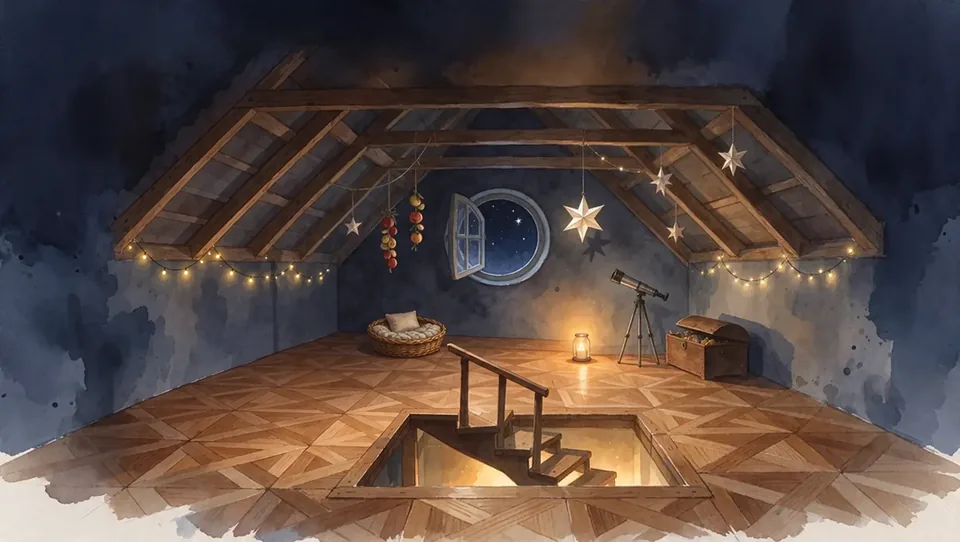
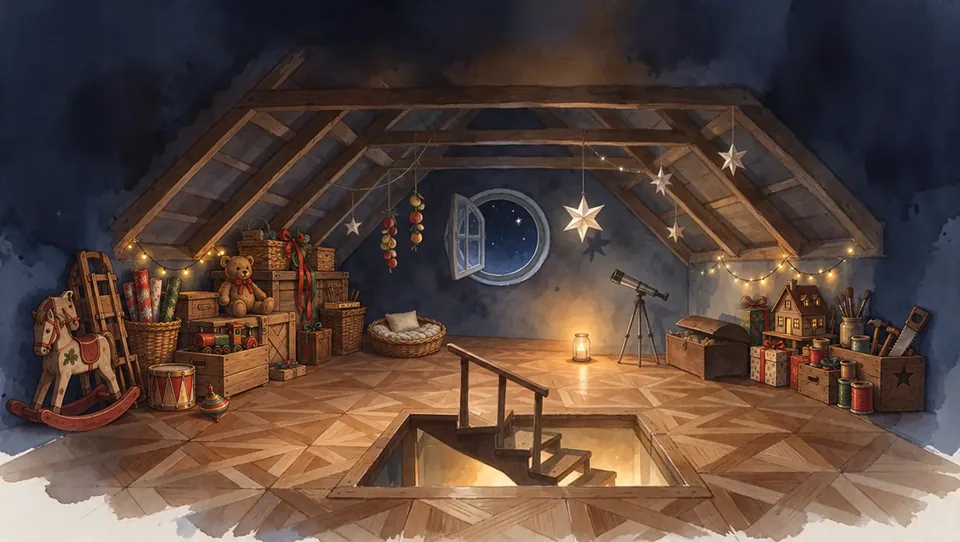
Werkstatt: Dachkammer mit Spielzeug und Werkzeug, neue Punkte Teddy und Kreisel
Claude-Session: https://claude.ai/code/session_01ArsKeXS99HkwNhuNehSTEz

Changed region(s): [[0.0, 0.4133, 0.4062, 0.8266], [0.75, 0.4428, 1.0, 0.797]]

diff --git a/werkstatt/index.html b/werkstatt/index.html
@@ -317,19 +317,21 @@ html.wisch body{min-height:calc(100vh + 90px);min-height:calc(100lvh + 90px)}
       {x:55,y:66.5,t:"Seine Hausschuhe. So klein.",s:"glitzer",f:"funken"},
       {x:72,y:47,t:"Im Schrank hängt seine Ersatzmütze.",s:"schrank",f:"ring"},
       {x:82,y:57,t:"Aus der Schüssel steigt noch Dampf.",s:null,f:"dampf"}]},
-    {id:"dachkammer",m:true,basis:false,a:[["p",54,85,34,6],["u",53,89,7],["f",66,51,1.4],["f",72,59,1.4],["l",[[62.8,29.3],[64.7,31.2],[68.7,32.0],[13.6,45.7],[88.6,46.2],[22.7,47.3],[15.1,47.5],[21.0,48.3],[30.4,49.2],[81.3,49.2],[75.8,49.2],[85.5,50.1],[19.4,50.3],[17.1,50.3],[24.1,50.4],[86.5,50.8],[31.0,50.9],[83.2,50.9],[27.8,51.1],[84.5,51.3],[78.3,51.5],[26.1,51.8],[76.7,51.7],[79.4,52.0],[77.8,52.5]]],["w",50.4,38.4,5.8,10.4,11,1],["lw",[[54,40.6],[51.6,39.2],[55.2,44.2],[52.7,47.4]]],["f",61,39.6,2.8],["f",69,33,2.2],["f",76.3,29,2.4],["f",70.5,43,1.8],["f",36.6,41.8,1.8],["g",60.5,63.8,5.5],["n",43,58,"zZz",5]],ort:"Dachkammer",text:"Ganz oben. Das Fenster steht offen.",p:[
+    {id:"dachkammer",m:true,basis:false,a:[["p",54,85,34,6],["u",53,89,7],["f",66,51,1.4],["f",72,59,1.4],["l",[[64.7,31.2],[68.7,32.0],[88.6,46.3],[23.1,46.7],[15.1,47.4],[81.7,47.2],[21.0,48.2],[81.3,49.1],[75.8,49.2],[82.5,49.4],[85.5,50.1],[19.4,50.3],[17.1,50.3],[86.5,50.7],[83.2,50.8],[84.5,51.3],[76.7,51.7],[79.5,52.0],[77.8,52.5]]],["w",50.4,38.4,5.8,10.4,11,1],["lw",[[54,40.6],[51.6,39.2],[55.2,44.2],[52.7,47.4]]],["f",61,39.6,2.8],["f",69,33,2.2],["f",76.3,29,2.4],["f",70.5,43,1.8],["f",36.6,41.8,1.8],["g",60.5,63.8,5.5],["n",43,58,"zZz",5]],ort:"Dachkammer",text:"Ganz oben. Das Fenster steht offen.",p:[
       {x:52.5,y:43,t:"Durch dieses Fenster ist er hinaus. Draußen schneit es.",s:"tuer",f:"flocken"},
       {x:66.5,y:57,t:"Mit dem Fernrohr zählt er die Sterne.",s:"teleskop",f:"funken"},
       {x:74,y:62,t:"In der Kiste sammelt er Dinge, die er unterwegs findet.",s:"truhe",f:"funken"},
       {x:61,y:40,t:"Den hellsten Stern hat er für euch aufgehängt.",s:"glitzer",f:"funken"},
       {x:42,y:43,t:"Getrocknete Äpfel. Sein Vorrat für den Winter.",s:"bett",f:"ring"},
-      {x:42,y:61,t:"Hier oben schläft Mimi, wenn sie müde ist. Also fast immer.",s:"schnarchen",f:"zzz"}]}
+      {x:42,y:61,t:"Hier oben schläft Mimi, wenn sie müde ist. Also fast immer.",s:"schnarchen",f:"zzz"},
+      {x:24.5,y:53,t:"Der Teddy brummt, wenn man ihn kippt.",s:"teddy",f:"ring"},
+      {x:22.3,y:74.5,t:"Ein Kreisel. Er hat ihn heute schon ausprobiert.",s:"kreisel",f:"funken"}]}
   ];
 
   var $=function(s){return document.getElementById(s)};
   var still=matchMedia("(prefers-reduced-motion: reduce)").matches;
   var gross=(Math.min(screen.width,screen.height)*(devicePixelRatio||1))>820 || innerWidth*(devicePixelRatio||1)>1500;
-  var src=function(i){return "bild/"+ZIMMER[i].id+"-"+(gross?"1600":"960")+".webp?v=20261126a"};
+  var src=function(i){return "bild/"+ZIMMER[i].id+"-"+(gross?"1600":"960")+".webp?v=20261126b"};
   var NS="http://www.w3.org/1999/xlink";
   var bildAlt=$("bildAlt"), bildNeu=$("bildNeu");
   var nr=0, tonAn=true, laeuft=false, zettelTimer=null, cache={}, toene={};

diff --git a/werkstatt/ton/QUELLEN.md b/werkstatt/ton/QUELLEN.md
@@ -13,3 +13,5 @@ Bei einem bezahlten Tarif ist das erlaubt.
 ## Hintergrundmusik
 musik.flac (und musik.mp3 als Ersatz): eigens erzeugt mit ElevenLabs Music v2.5 am 23.11.2026 („Weihnachtswalzer mit Glockenspiel“, 30 s), zu einer nahtlosen Schleife von 27,25 s verblendet.
 Die Musik wird über Web Audio als lückenlose Schleife abgespielt, leise im Hintergrund, und beim Abspielen eines Geräuschs kurz leiser.
+
+- teddy.mp3, kreisel.mp3: ElevenLabs Sound Effects (eleven_text_to_sound_v3), 26.11.2026
